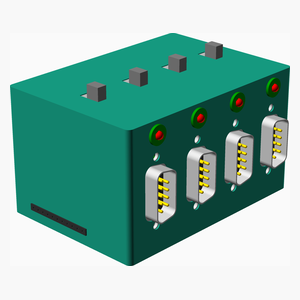
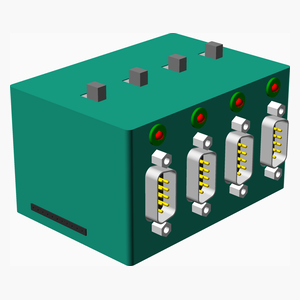
screw Dsub

diff --git a/case/readme.md b/case/readme.md
@@ -22,13 +22,15 @@
 |---:|---:|---:|---:|---:|:---|
 |  |  |  |  | | **Vitamins** |
 | &nbsp;&nbsp;.&nbsp; | &nbsp;&nbsp;.&nbsp; | &nbsp;&nbsp;4&nbsp; | &nbsp;&nbsp;.&nbsp; |  &nbsp;&nbsp;4&nbsp; | &nbsp;&nbsp; D-type 9 way  plug |
+| &nbsp;&nbsp;.&nbsp; | &nbsp;&nbsp;.&nbsp; | &nbsp;&nbsp;8&nbsp; | &nbsp;&nbsp;.&nbsp; |  &nbsp;&nbsp;8&nbsp; | &nbsp;&nbsp; D-type connector pillar |
 | &nbsp;&nbsp;4&nbsp; | &nbsp;&nbsp;.&nbsp; | &nbsp;&nbsp;.&nbsp; | &nbsp;&nbsp;.&nbsp; |  &nbsp;&nbsp;4&nbsp; | &nbsp;&nbsp; JST XH connector 3 way |
 | &nbsp;&nbsp;1&nbsp; | &nbsp;&nbsp;.&nbsp; | &nbsp;&nbsp;.&nbsp; | &nbsp;&nbsp;.&nbsp; |  &nbsp;&nbsp;1&nbsp; | &nbsp;&nbsp; JST XH connector 5 way |
 | &nbsp;&nbsp;.&nbsp; | &nbsp;&nbsp;4&nbsp; | &nbsp;&nbsp;.&nbsp; | &nbsp;&nbsp;.&nbsp; |  &nbsp;&nbsp;4&nbsp; | &nbsp;&nbsp; LED 3 mm red |
+| &nbsp;&nbsp;.&nbsp; | &nbsp;&nbsp;.&nbsp; | &nbsp;&nbsp;8&nbsp; | &nbsp;&nbsp;.&nbsp; |  &nbsp;&nbsp;8&nbsp; | &nbsp;&nbsp; Nut M2 x 1.6mm  |
 | &nbsp;&nbsp;1&nbsp; | &nbsp;&nbsp;.&nbsp; | &nbsp;&nbsp;.&nbsp; | &nbsp;&nbsp;.&nbsp; |  &nbsp;&nbsp;1&nbsp; | &nbsp;&nbsp; Pin socket 11 x 1 right_angle |
 | &nbsp;&nbsp;.&nbsp; | &nbsp;&nbsp;.&nbsp; | &nbsp;&nbsp;4&nbsp; | &nbsp;&nbsp;.&nbsp; |  &nbsp;&nbsp;4&nbsp; | &nbsp;&nbsp; SlideSwitch |
 | &nbsp;&nbsp;1&nbsp; | &nbsp;&nbsp;.&nbsp; | &nbsp;&nbsp;.&nbsp; | &nbsp;&nbsp;.&nbsp; |  &nbsp;&nbsp;1&nbsp; | &nbsp;&nbsp; ftdi quad lin |
-| &nbsp;&nbsp;7&nbsp; | &nbsp;&nbsp;4&nbsp; | &nbsp;&nbsp;8&nbsp; | &nbsp;&nbsp;.&nbsp; | &nbsp;&nbsp;19&nbsp; | &nbsp;&nbsp;Total vitamins count |
+| &nbsp;&nbsp;7&nbsp; | &nbsp;&nbsp;4&nbsp; | &nbsp;&nbsp;24&nbsp; | &nbsp;&nbsp;.&nbsp; | &nbsp;&nbsp;35&nbsp; | &nbsp;&nbsp;Total vitamins count |
 |  |  |  |  | | **3D printed parts** |
 | &nbsp;&nbsp;.&nbsp; | &nbsp;&nbsp;4&nbsp; | &nbsp;&nbsp;.&nbsp; | &nbsp;&nbsp;.&nbsp; |  &nbsp;&nbsp;4&nbsp; | &nbsp;&nbsp;LED3mm_bezel.stl |
 | &nbsp;&nbsp;.&nbsp; | &nbsp;&nbsp;.&nbsp; | &nbsp;&nbsp;4&nbsp; | &nbsp;&nbsp;.&nbsp; |  &nbsp;&nbsp;4&nbsp; | &nbsp;&nbsp;LED3mm_bezel_retainer.stl |
@@ -109,6 +111,8 @@ Place FTDI Quad LIN PCB into base part.
 |Qty|Description|
 |---:|:----------|
 |4| D-type 9 way  plug|
+|8| D-type connector pillar|
+|8| Nut M2 x 1.6mm |
 |4| SlideSwitch|
 
 
